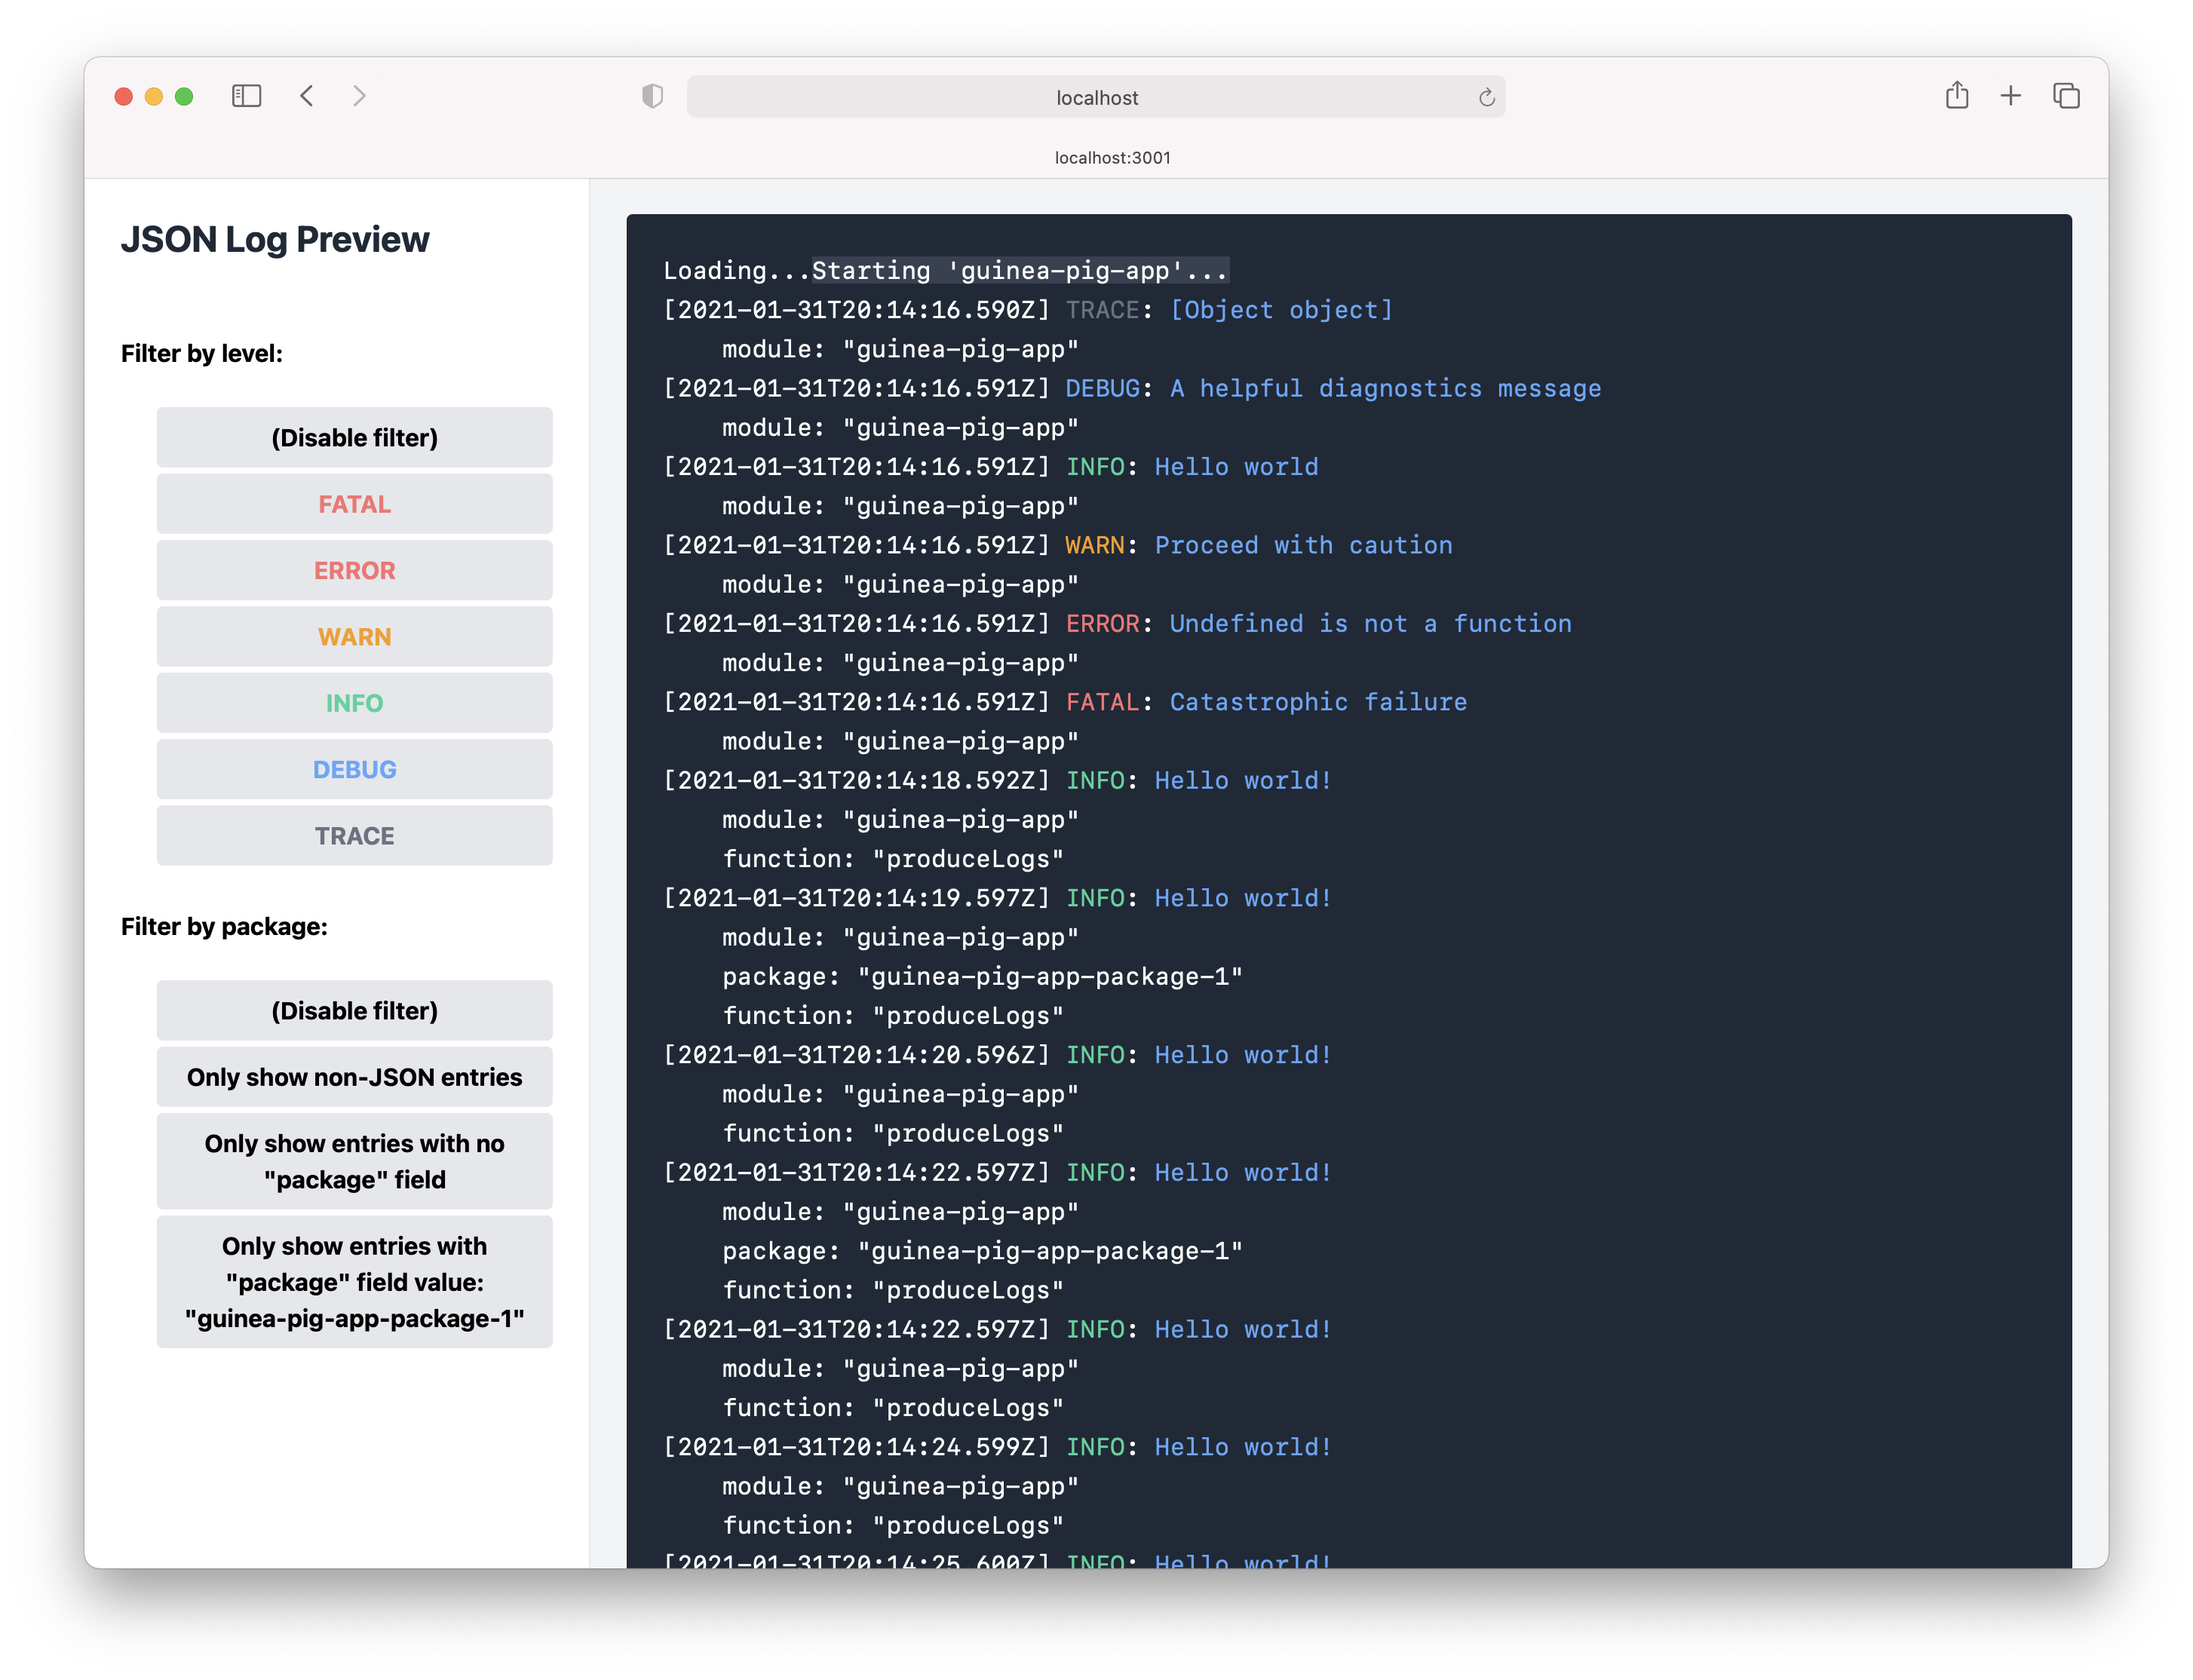
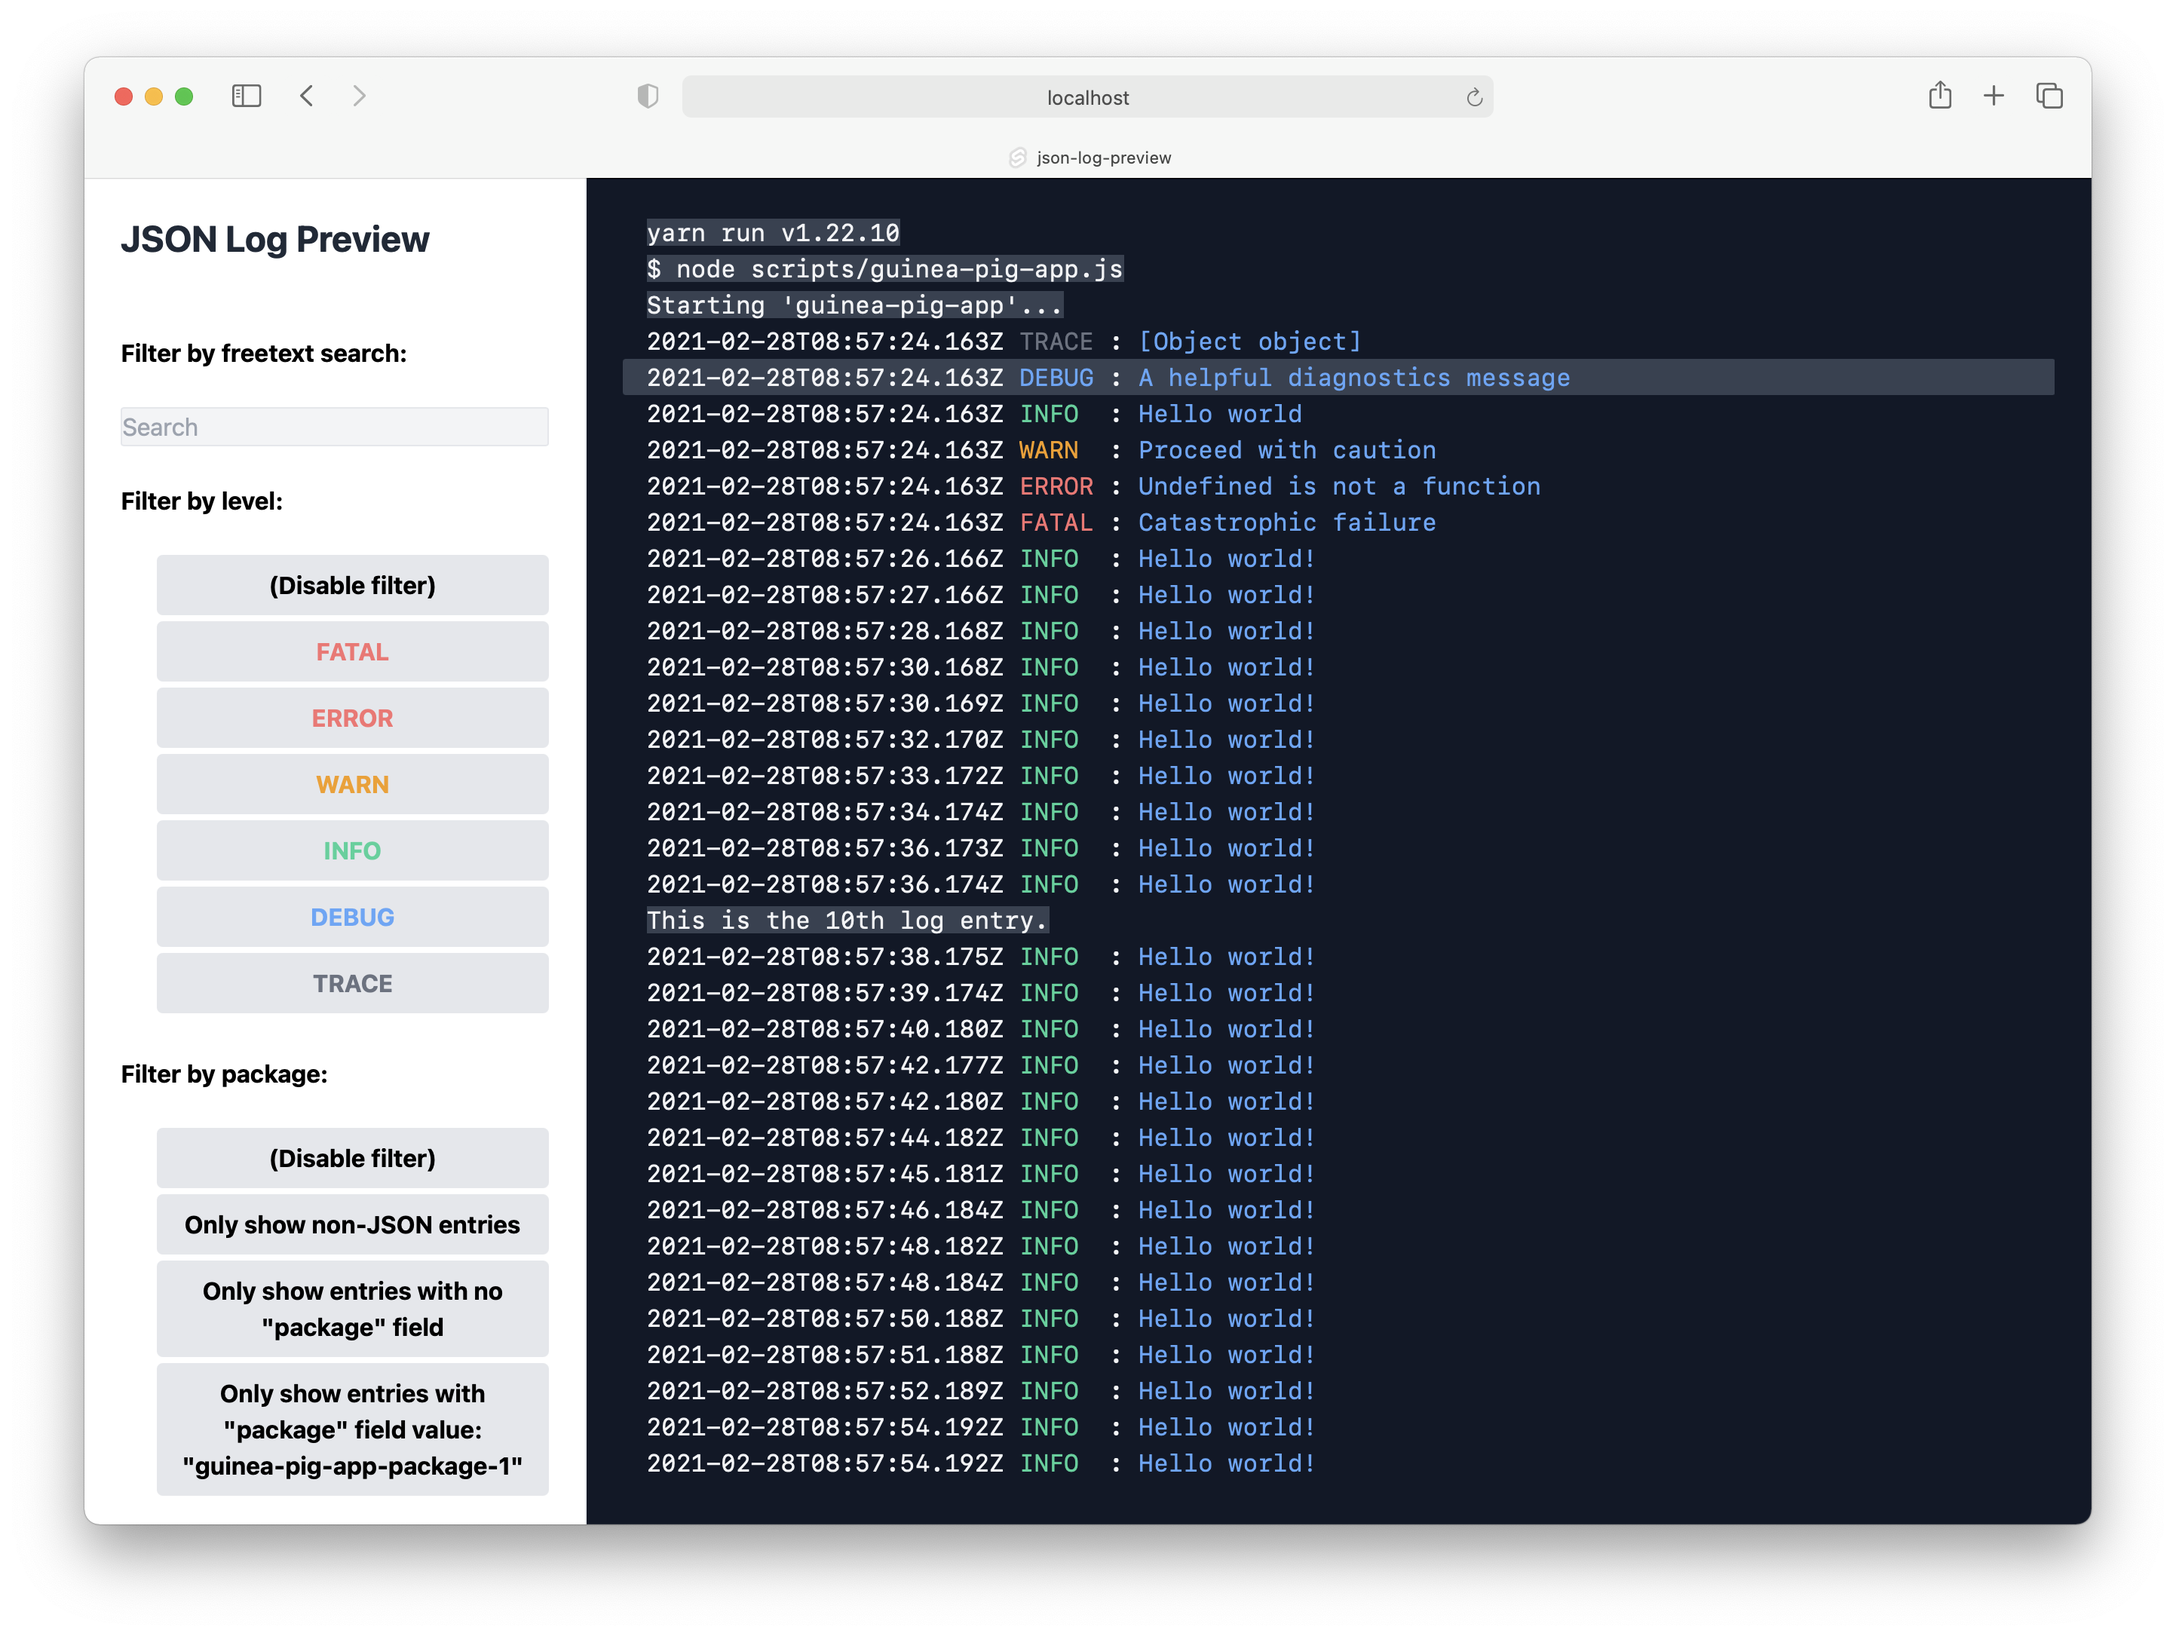
Update docs & screenshot for v2

diff --git a/README.md b/README.md
@@ -19,28 +19,33 @@ Install dependencies with yarn:
 $ yarn install
 ```
 
-Run this app with Node.js. This app consumes input from the stdin stream, so
-setup a pipe for the log-producing app (or `cat` if your logs are in a file). This codebase includes a simple
-logger app for demonstration purposes, and both can be launched with the
-following example command:
+Run this app with Node.js using the `start` package script (installing as a
+package / bin is not yet supported). This app consumes input from the stdin
+stream, so setup a pipe for the log-producing app (or `cat` if your logs are in
+a file). This codebase includes a simple logger app for demonstration purposes,
+and both can be launched with the following example command:
 
 ```console
-$ node scripts/guinea-pig-app.js | node .
+yarn run start:dev:guinea-pig-app | yarn run start
 ```
 
 By default, the app will be served at [http://localhost:3001](http://localhost:3001). This can be modified by specifying the `PORT` environment variable.
 
 Using the sidebar controls, you can filter the log entry view by log level, or by the `package` field of JSON objects.
 
+As long as you remain scrolled to the bottom of the log panel, the view will auto-follow
+to scroll down to new log entries as they appear.
+
 For convenience, this app also forwards stdin to stdout, you can also see all log entries in your terminal in addition to the web interface. You can also pipe them to other utilities.
 
 ## Some planned features
 
--   Support for arbitrary JSON log formats (field names, loglevels etc.)
--   Binary usage support with `npm`
--   Performance improvements (heavy logging will eventually result in huge DOM and slow down this experimental version of the app, so don't forget to shut it down after use!)
--   Graceful handling of app shutdown
--   Improved JSON field discovery for setting filters
--   Support for `jq`-style syntax for filter expressions
--   Hide log entry details behind modal view by default
--   Optional page auto-scroll
+[ ] Support for arbitrary JSON log formats (field names, loglevels etc.)
+[ ] Binary usage support with `npm`
+[x] Performance improvements (heavy logging will eventually result in huge DOM and slow down this experimental version of the app, so don't forget to shut it down after use!)
+[ ] Graceful handling of app shutdown
+[ ] Improved JSON field discovery for setting filters
+[ ] Support for `jq`-style syntax for filter expressions
+[ ] Hide log entry details behind modal view by default
+[ ] Automatic test suite
+[x] Optional page auto-scroll
